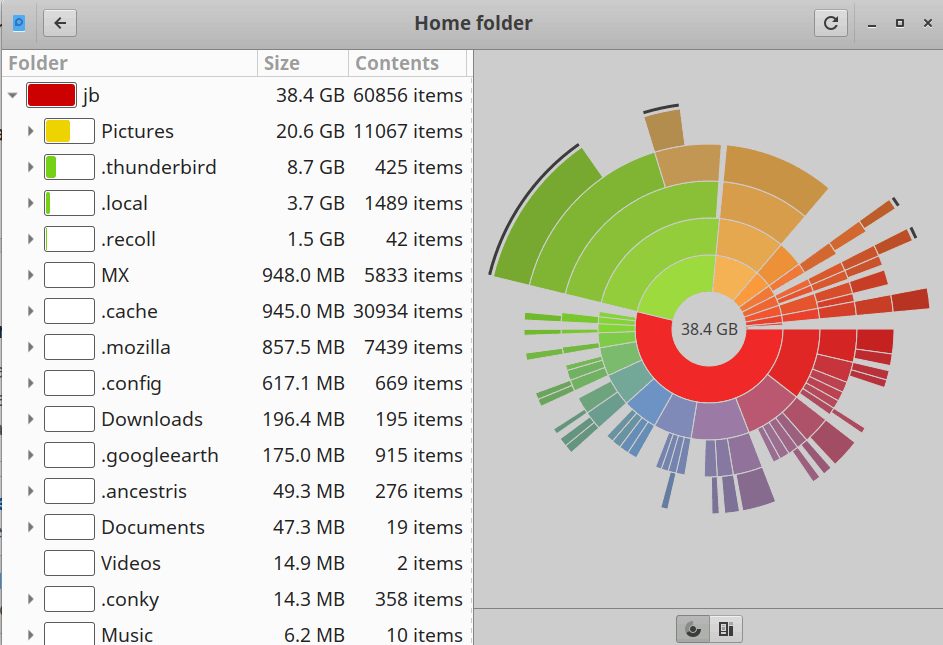
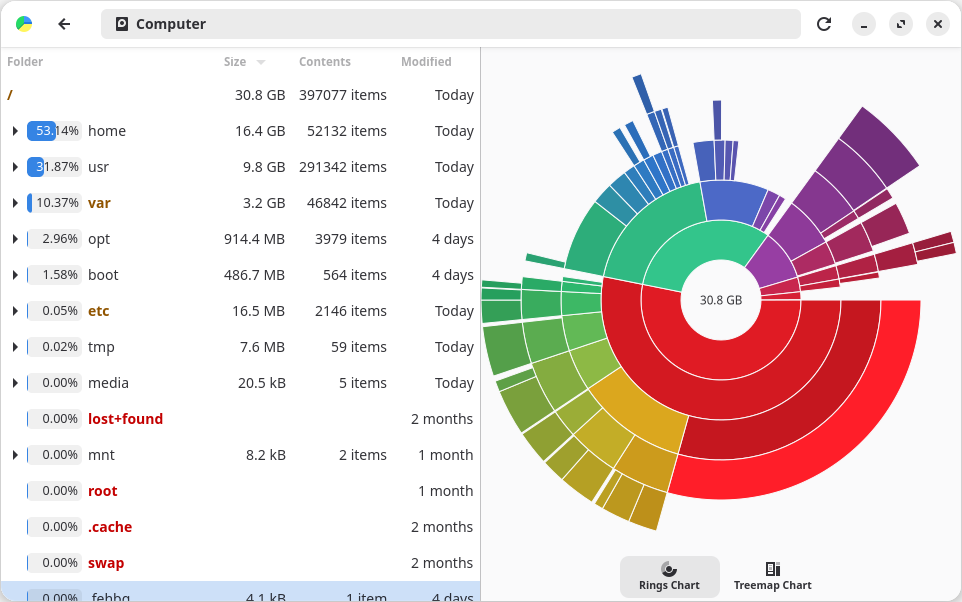
Documenting sub-items previously not  covered.

diff --git a/help/mx-cleanup.html b/help/mx-cleanup.html
@@ -1,41 +1,131 @@
-<?xml version="1.0" encoding="UTF-8"?> 
-<!DOCTYPE html PUBLIC "-//W3C//DTD XHTML 1.0 Strict//EN" "http://www.w3.org/TR/xhtml1/DTD/xhtml1-strict.dtd">
-<html xmlns="http://www.w3.org/1999/xhtml" xml:lang="en" lang="en">
+<!DOCTYPE html>
+<html lang="en">
 <head>
-	<meta http-equiv="Content-Type" content="text/html; charset=UTF-8" />
+	<meta http-equiv="content-type" content="text/html; charset=utf-8"/>
+    <meta name="viewport" content="width=device-width, initial-scale=1">
 	<title>HELP: MX Cleanup</title>
+    <link href="custom.css" rel="stylesheet" type="text/css">
 </head>
-<body>
-<h1>HELP: MX Cleanup</h1>
-<p>This application offers several easy actions to check and increase hard drive space.</p>
+<body lang="en-US">
+	
+<h1 style="text-align:center;">HELP: MX Cleanup</h1>
 
-	<ul>
-		<li>Folders</li>
-		<li> Apt (Installation)
-			<ul>
-				<li> Old files are ones that can no longer be downloaded</li>
-			</ul>
-		</li>
-		<li> Logs
-			<ul>
-				<li> Old logs end in .gz, .old, and .1</li>
-			</ul>
-		</li>
-		<li> Trash</li>
-	</ul>
+<p style="text-align:center;">This application offers several easy cleaning actions to help increase/maintain free disk space.</p>
+
+<p><br></p>
+
+<img src="main-tab.png" width="514" height="488" alt="main tab">
 
 
-<p>Baobab (Disk Usage Analyzer) gives a very nice graphical display of your used space.</p>
+<h2 class="western">Main tab</h2>
 
-<table width="100%" border="0" cellspacing="0" cellpadding="0">
-	<tr>
-		<td align="left">
-			<img src="baob.png" alt="Baobab Disk Usage Analyzer" width="900" height="615" />
-		</td>
-	</tr>
-</table>
+<p>Here you will find specific cleaning tools that all are run on a scheduled time.</p>
 
-<p>Note that there are other cleanup applications available in the repos such as Bleachbit, but these have a significant potential to destroy an OS and should only be used by advanced users.</p>
+
+
+<ul>
+<li><b>Free disk space for user</b> - select the user that Cleanup is working on with the Select user:<span style="font-family: OpenSymbol;">↕</span> control.</li>
+
+<li><b>Clean Folders</b> – cleans Cache and Thumbnails by accessed time or all (potentially dangerous).</li>
+
+<li><b>Delete Logs</b> – delete only old logs or Logs older than: <span style="font-family: OpenSymbol;">↕</span> via chooser.</li>
+
+<li><b>Clear APT Cache</b> - delete only Old files or All files.</li>
+
+<li><b>Clean Flatpak</b> – Remove unused runtimes. Files that were left behind by removed Flatpaks.</li>
+
+<li><b>Empty Trash</b> – Operate on selected user or all users. Setting for Trash older than: <span style="font-family: OpenSymbol;">↕</span></li>
+</ul>
+
+
+<h4>Schedule</h4>
+
+<p>The default schedule is No automatic clean. Other choices are: At reboot, Daily, Weekly and Monthly.</p>
+
+<p></p>
+
+<p>Click Apply and then x Close.</p>
+
+<br>
+
+
+<hr>
+
+<h2>Tools tab</h2>
+
+
+<p>Here you will find specialized cleaning tools that are one time actions.</p>
+
+
+<h3>Removal Tools</h3>
+
+<img src="Tools.png" width="581" height="300" alt="Tools">
+
+<br style="clear:left;"/>
+
+<p><b>Remove unused WiFi drivers</b> – Linux kernel 6.14 and later has many RealTek drivers in kernel. This removes the DKM type WiFi drivers that were used by older kernels. This prevents them from being rebuilt needlessly each time a Linux kernel update is applied.</p>
+
+<p><br></p>
+
+<p><b>List and select kernels to remove</b>. If you have you kernels auto updating the space consumed then increases over time. This is especially true if kernels are in /boot when root encryption configured.</p>
+
+<p><br></p>
+
+<img src="remove-kernels.png" width="345" height="215" alt="">
+
+<p><br></p>
+
+<p  style="text-align:left;">The <strong>Kernel currently in use:</strong> kernel can NOT be removed. It is considered a good practice to keep at least 1 kernel beyond the one in use.</p>
+
+<p><br></p>
+
+<p><b>Remove MX manuals for languages other than the system default</b>. This frees up disk space taken by manuals and FAQ files (PDF) that are not needed.</p>
+
+<p><br></p>
+
+
+<hr>
+
+<h3>Graphical Tool for Analyzing Disk Usage</h3>
+
+<p>Clicking <b>Run </b><b>Disk Usage Analyzer</b> starts an applet that gives a graphical disk usage map display of your used. When first opened it asks you to define a starting point.</p>
+
+<p><br></p>
+
+<img src="Devices-and-Locations.png" width="962" height="394" alt="">
+
+<br style="clear:left;"/>
+
+<p>Then it shows a Folder list (left). The listing is sorted by the Size of disk space used. Space use is shown as a percentage in the Folder listing and is highlighted as red in the Rings Chart (right).</p>
+
+<p><br></p>
+
+<img src="baob.png" width="962" height="602" class="center" alt="">
+
+<p><br></p>
+
+<p>This allows for a selection of a specific part of the file system to be scanned. A single folder or the entire file system. Clicking a folder updates the display and refreshes the listing of internal details.</p>
+
+<p><br></p>
+
+<img src="baob-02.png" width="951" height="599" alt="">
+
+<p><br></p>
+
+<p>Mousing over a given item in the chart (above) shows folder (Host) in light red and component file of it (Windows11_Client_…) in a darker red.</p>
+
+<p><br></p>
+
+<p>Each directory can be operated on by right clicking and choosing either ‘Open Externally’ (File Manager) or ‘Move to Trash’ options.</p>
+
+
+<br><hr>
+
+<h3>Closing caution</h3>
+
+<p>Note that there are other cleanup applications available in the repos such as Bleachbit, but these have a significant potential to destroy a Linux OS and should only be used by advanced users.</p>
+
+<p><br></p>
 
 </body>
 </html>

diff --git a/help/custom.css b/help/custom.css
@@ -1,0 +1,44 @@
+body {
+    font-family: sans-serif;
+    line-height: 1.5;
+    margin: 2rem auto;
+    padding: 0 1.25rem 2rem;
+    color: #202124;
+    }
+
+h1,
+h2{
+    color: #103c6b;
+}
+
+a {
+    color: #005f99;
+}
+
+code {
+    background: #f1f3f4;
+    border-radius: 3px;
+    padding: 0.1rem 0.3rem;
+}
+
+img {
+    display: block;
+    margin: auto;
+	padding: 15px 0; /* Adds space between each */
+}
+
+p {
+	margin: .2em;
+}
+
+. center {
+			text-align:center;
+}
+
+.footer {
+    border-top: 1px solid #d0d7de;
+    color: #5f6368;
+    font-size: 0.95rem;
+    margin-top: 2rem;
+    padding-top: 1rem;
+}
